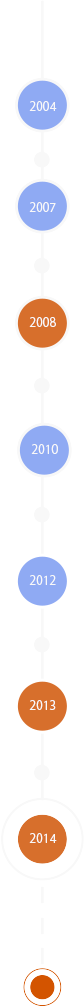
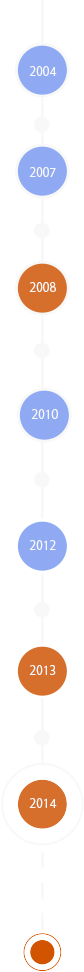
css company-profile

diff --git a/skin/frontend/default/iconic/css/cms.css b/skin/frontend/default/iconic/css/cms.css
@@ -496,6 +496,8 @@ body.cms-page-view .world-map .text .button a{
 	color: #fff;
 	font-weight: bold;
 	padding: 5px 15px;
+	letter-spacing: -1px;
+	font-size: 13px;
 }
 #company-profile .timeline > div > p{
 	padding: 5px 15px;
@@ -542,7 +544,7 @@ body.cms-page-view .world-map .text .button a{
 #company-profile .timeline > div.e2004{
 	width: 230px;
 	top: 53px;
-	right: 147px;
+	right: 100px;
 }
 #company-profile .timeline > div.e2004.e2004-2{
 	top: 15px;
@@ -554,7 +556,7 @@ body.cms-page-view .world-map .text .button a{
 #company-profile .timeline > div.e2007{
 	width: 268px;
 	top: 133px;
-	left: 111px;
+	left: 100px;
 }
 #company-profile .timeline > div.e2007 .tit:before{
 	right: -20px;
@@ -563,7 +565,7 @@ body.cms-page-view .world-map .text .button a{
 #company-profile .timeline > div.e2008{
 	width: 230px;
 	top: 248px;
-	right: 147px;
+	right: 100px;
 }
 #company-profile .timeline > div.e2008 .tit:before{
 	left: -20px;
@@ -572,7 +574,7 @@ body.cms-page-view .world-map .text .button a{
 #company-profile .timeline > div.e2010{
 	width: 285px;
 	top: 366px;
-	left: 90px;
+	left: 100px;
 	color: #fff;
 	font-weight: bold;
 }
@@ -590,7 +592,7 @@ body.cms-page-view .world-map .text .button a{
 #company-profile .timeline > div.e2012{
 	width: 274px;
 	top: 501px;
-	right: 102px;
+	right: 100px;
 }
 #company-profile .timeline > div.e2012 .tit:before{
 	left: -20px;
@@ -599,7 +601,7 @@ body.cms-page-view .world-map .text .button a{
 #company-profile .timeline > div.e2013{
 	width: 298px;
 	top: 630px;
-	left: 82px;
+	left: 100px;
 }
 #company-profile .timeline > div.e2013 .tit:before{
 	right: -20px;
@@ -608,7 +610,7 @@ body.cms-page-view .world-map .text .button a{
 #company-profile .timeline > div.e2014{
 	width: 317px;
 	top: 758px;
-	right: 45px;
+	right: 100px;
 }
 #company-profile .timeline > div.e2014 .tit:before{
 	left: -20px;
@@ -620,7 +622,8 @@ body.cms-page-view .world-map .text .button a{
 #company-profile .map{
 	padding: 20px;
 	border: dashed 2px #8faaf3;
-	background-color: #dadbdc;
+	background-color: #f8f8f8;
+	margin-top: -20px;
 }
 #company-profile .map .tit{
 	text-align: center;
@@ -629,6 +632,9 @@ body.cms-page-view .world-map .text .button a{
 }
 body.cms-company-profile #main .main{
 	border: none;
+}
+body.cms-page-view.cms-company-profile .page-title{
+	border-width: 2px;
 }
 #company-profile .map p{
 	margin-bottom: 20px;
